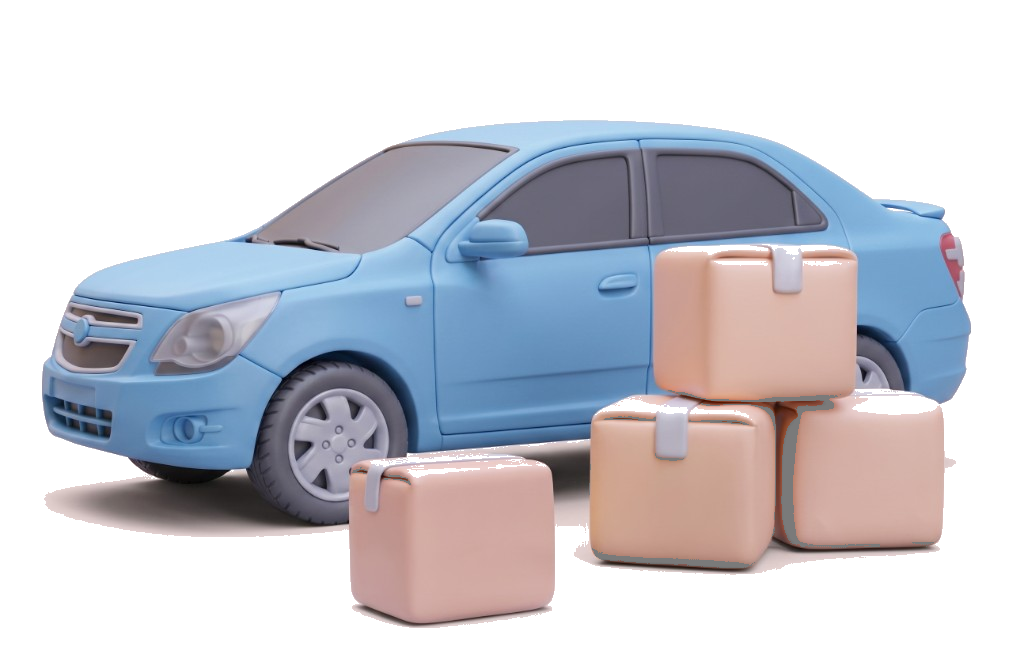
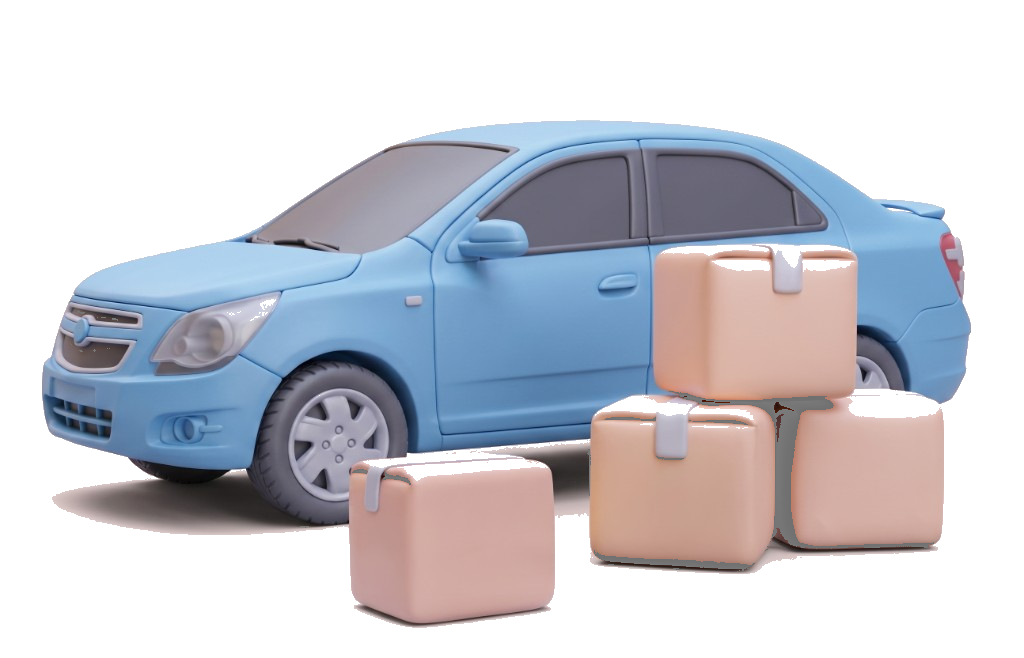
update

diff --git a/index.html b/index.html
@@ -1015,7 +1015,7 @@ body.view-sender.theme-telegram .toggle{
       <div id="senderView">
         <div class="sender-body">
           <div class="scene" aria-hidden="true">
-            <img class="scene-img" src="assets/scene-clay.png?v=3" alt="" width="1024" height="658" decoding="async"/>
+            <img class="scene-img" src="assets/scene-clay.png?v=4" alt="" width="1024" height="658" decoding="async"/>
           </div>
           <div class="shipments-wrap" id="shipmentsWrap">
             <div class="shipments-head">Jo'natmalarim</div>
